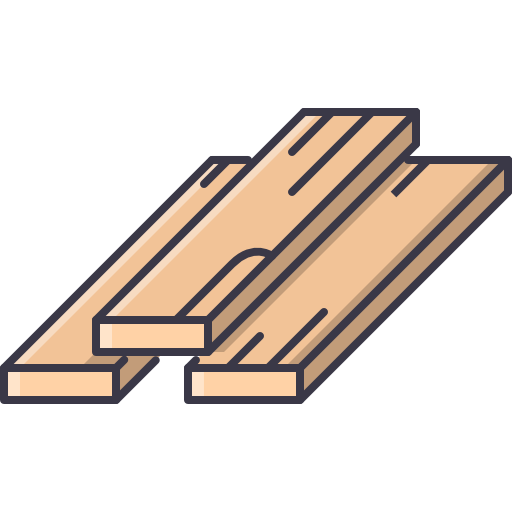
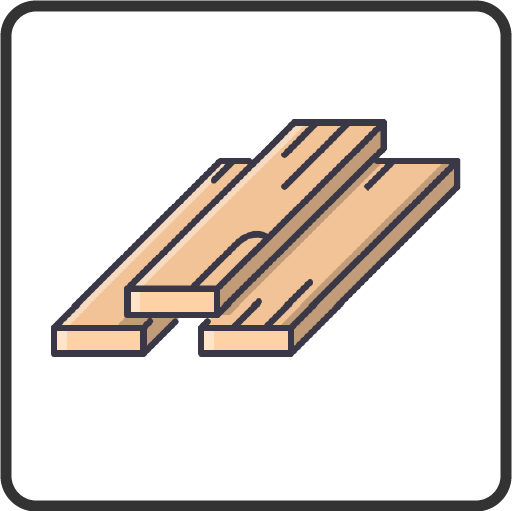
Fixed images and style for cards.

diff --git a/src/components/Player/index.tsx b/src/components/Player/index.tsx
@@ -28,21 +28,19 @@ type ContextMenuType = {
 type TypeOfCard = "boards" | "health" | "weapon" | null;
 
 const PlayerCard = styled.div<PlayerItem>`
-  width: 34px;
-  height: 34px;
+  width: 50px;
+  height: 50px;
   margin: 0px;
   z-index: 3;
   text-align: center;
-  padding: 4px;
+  padding: 2px;
   box-sizing: border-box;
   cursor: default;
   background-repeat: no-repeat;
   background-position: 0px;
-  background-color: white;
   background-image: url(${img});
-  background-size: 30px;
-  border: 1px solid black;
-
+  background-size: 44px;
+  background-position: 3px;
   &:before {
     content: "";
     position: absolute;
@@ -70,9 +68,6 @@ const PlayerCardList = styled.div`
   z-index: 3;
   font-size: 12px;
   font-weight: bold;
-  color: white;
-  /*   padding: 3px; */
-  margin: 3px;
 `;
 
 export const PlayerList = (props: PlayerListItem) => {

diff --git a/src/features/PlayGrid/getFilledPlayGrid.tsx b/src/features/PlayGrid/getFilledPlayGrid.tsx
@@ -37,19 +37,19 @@ const CellItem = styled.div<CellApperance>`
 
   background-color: ${(props) => {
     if (props.hasMarker) {
-      return " rgb(224 91 91 / 40%)";
+      return "rgb(55 163 0 / 77%);";
     }
   }};
 
   & > :first-child {
     top: ${(props) => {
       if (props.isNeedSepareteCards) {
-        return "-10px";
+        return "-5px";
       }
     }};
     left: ${(props) => {
       if (props.isNeedSepareteCards) {
-        return "-10px";
+        return "-21px";
       }
     }};
   }
@@ -62,7 +62,7 @@ const CellItem = styled.div<CellApperance>`
 
     left: ${(props) => {
       if (props.isNeedSepareteCards) {
-        return "15px";
+        return "10px";
       }
     }};
   }

diff --git a/src/shared/config/index.ts b/src/shared/config/index.ts
@@ -7,13 +7,13 @@ import {
 export const START_COORD = { hor: 0, vert: 0 };
 export const FINISH_COORD = { hor: 11, vert: 11 };
 export const INITIAL_PLAYER_HEALTH = 3;
-export const AMOUNT_HEALTH_ITEMS = 20;
-export const AMOUNT_BOARDS_ITEMS = 20;
-export const AMOUNT_WEAPONS_ITEMS = 20;
+export const AMOUNT_HEALTH_ITEMS = 30;
+export const AMOUNT_BOARDS_ITEMS = 30;
+export const AMOUNT_WEAPONS_ITEMS = 30;
 export const AMOUNT_PLAYERS = 1;
-export const AMOUNT_ENEMIES = 20;
+export const AMOUNT_ENEMIES = 30;
 
-export const CARD_APPERANCE: CardApperance = "closed";
+export const CARD_APPERANCE: CardApperance = "open";
 
 export const PLAY_GRID_MODE: PlayGridMode = "image";
 

diff --git a/src/components/Enemy/Enemy.tsx b/src/components/Enemy/Enemy.tsx
@@ -18,8 +18,7 @@ const EnemyCard = styled.div<EnemyCardType>`
   height: 25px;
   margin: 12px;
   box-sizing: border-box; */
-  border: 1px solid;
-  color: #c08f5e;
+
   font-size: 47px;
   text-align: start;
   vertical-align: bottom;
@@ -33,12 +32,6 @@ const EnemyCard = styled.div<EnemyCardType>`
   background-color: ${(props) => {
     if (props.apperance === "open" || props.apperance === "defeated") {
       return "unset";
-    }
-  }};
-
-  border-color: ${(props) => {
-    if (props.apperance === "open") {
-      return "navy";
     }
   }};
 

diff --git a/src/components/Health/Health.tsx b/src/components/Health/Health.tsx
@@ -1,6 +1,6 @@
 import styled from "styled-components";
 import { StyledCommonCard } from "../CommonCard/CommonCard";
-import img from "./health3.png";
+import img from "./health.png";
 
 type HealthApperanceType = {
   apperance?: "closed" | "open";
@@ -12,12 +12,6 @@ export const StyledHealthCard = styled.div<HealthApperanceType>`
   background-color: ${(props) => {
     if (props.apperance === "open") {
       return "unset";
-    }
-  }};
-
-  border-color: ${(props) => {
-    if (props.apperance !== "open") {
-      return "gray";
     }
   }};
 

diff --git a/src/components/CommonCard/CommonCard.tsx b/src/components/CommonCard/CommonCard.tsx
@@ -1,16 +1,12 @@
 import styled, { css } from "styled-components";
-import img from "./brain.svg";
+import img from "./brain.png";
 
 export const StyledCommonCard = css`
   position: absolute;
-  border: 1px solid gray;
-  width: 34px;
-  height: 34px;
-  margin: 4px;
-  background-color: #b8b47d;
+  width: 50px;
+  height: 50px;
   background-image: url(${img});
-  background-size: 30px;
-  background-blend-mode: soft-light;
+  background-size: 44px;
   background-repeat: no-repeat;
-  background-position: 1px;
+  background-position: 3px;
 `;
